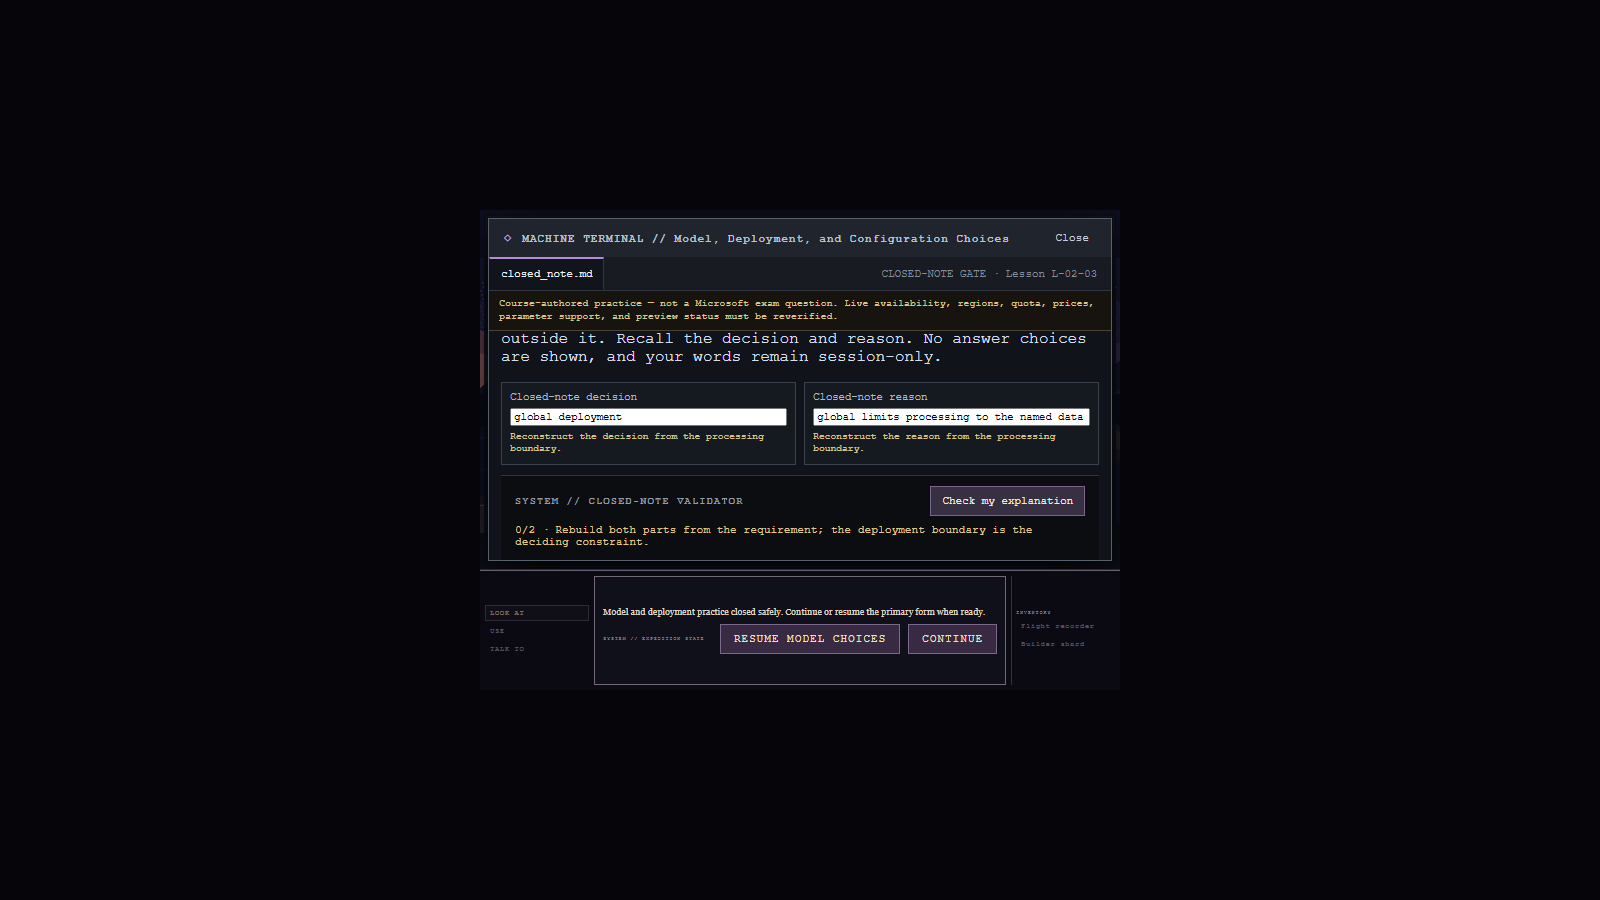
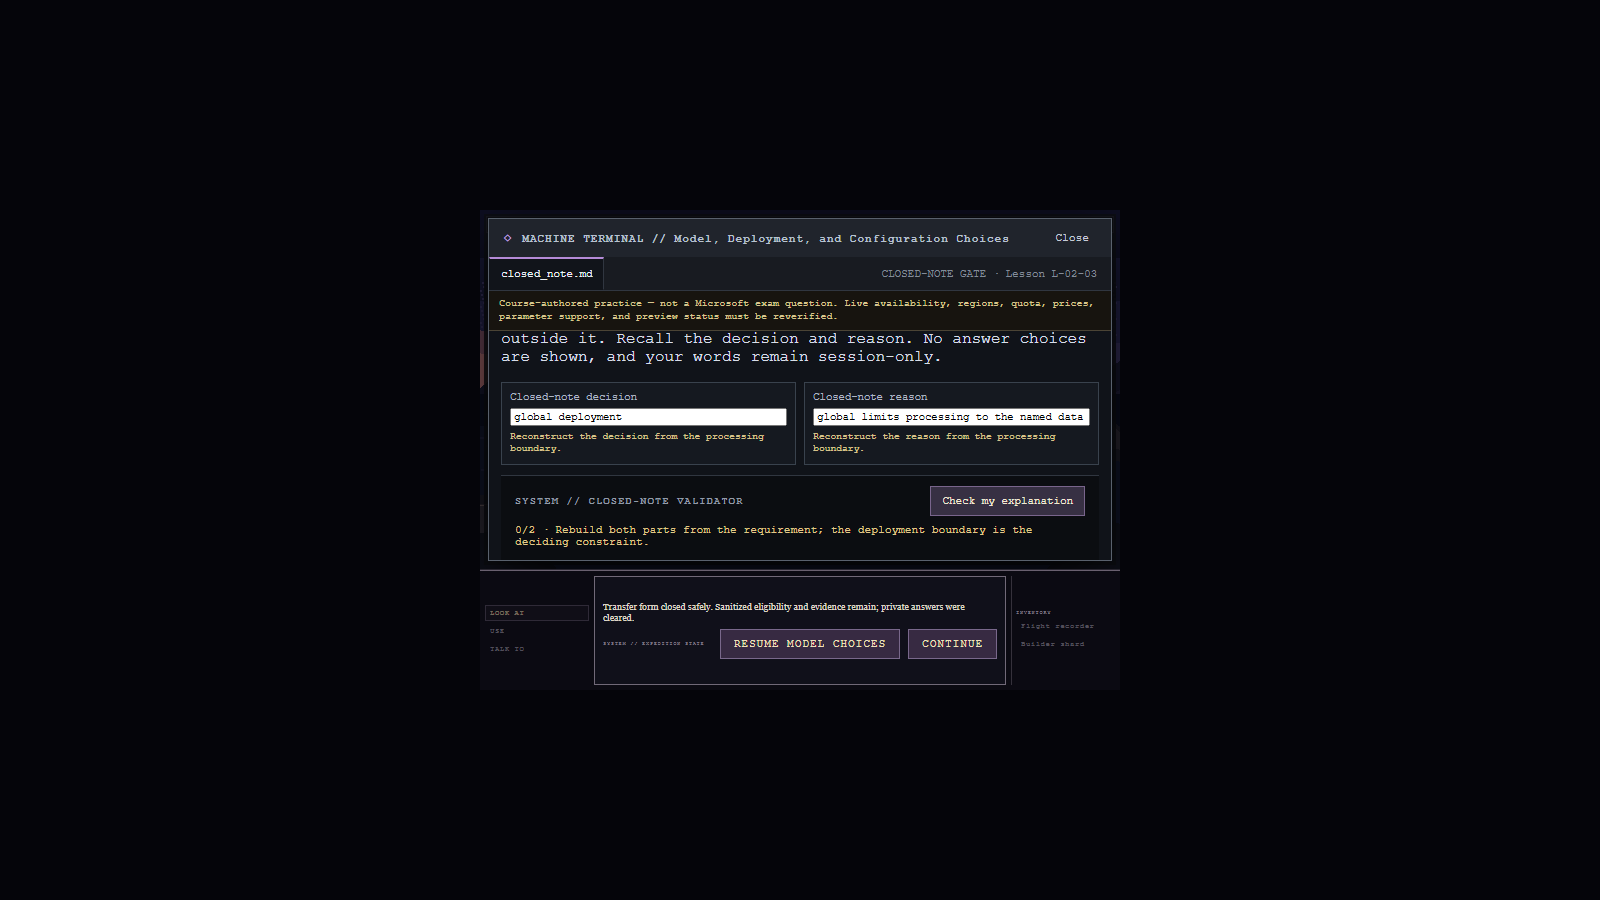
Round 9 step 5 Exercise Agent checkpoint

Changed region(s): [[0.375, 0.6533, 0.625, 0.7467]]

diff --git a/horizon-archive-game/src/App.jsx b/horizon-archive-game/src/App.jsx
@@ -80,6 +80,7 @@ import {
 import {
   evaluateModelChoiceExplanation,
   evaluateModelChoiceScenario,
+  getModelChoiceEligibility,
   getModelChoiceOptions,
   modelChoiceDimensions,
   modelChoiceExercise,
@@ -878,15 +879,17 @@ export function App() {
     setTerminalOpen(true);
     setRuinsTerminalKind("model-choice");
     if (!modelChoiceSession) {
-      const form = modelChoiceEvidence?.masteryStatus === "primary_complete" ? "transfer" : modelChoiceEvidence?.masteryStatus === "transfer_complete" || modelChoiceEvidence?.form === "explanation" ? "explanation" : "primary";
+      const { form } = getModelChoiceEligibility(modelChoiceEvidence);
       setModelChoiceSession({ form, phase: form === "explanation" ? "explanation" : "scenarios", index: 0, response: { decision: "", reason: "" }, result: null, hintLevel: 0, complete: false, explanationResponse: { decision: "", reason: "" }, explanationResult: null, ownershipConfirmed: false });
     }
   }
 
   function exitModelChoiceExercise() {
+    const phase = modelChoiceSession?.phase === "explanation" ? "Closed-note gate" : modelChoiceSession?.form === "transfer" ? "Transfer form" : "Primary form";
     setTerminalOpen(false);
     setRuinsTerminalKind(null);
-    setDialogue("Model and deployment practice closed safely. Continue or resume the primary form when ready.", "system");
+    setModelChoiceSession(null);
+    setDialogue(`${phase} closed safely. Sanitized eligibility and evidence remain; private answers were cleared.`, "system");
   }
 
   function checkModelChoice(event) {
@@ -1854,7 +1857,7 @@ export function App() {
                     <button className="continue-action" data-terminal-focus-fallback onClick={(event) => { terminalTriggerRef.current = event.currentTarget; openResponsibleAI(); }}>{responsibleAISession ? "Resume Responsible AI" : responsibleAIEvidence?.form === "transfer" || responsibleAIEvidence?.form === "explanation" ? "Start Responsible AI Transfer" : "Start Responsible AI"}</button>
                   )}
                   {pendingAdvance && scene.id === "ruins" && responsibleAIEvidence?.masteryStatus === "mastered" && modelChoiceEvidence?.masteryStatus !== "mastered" && (
-                    <button className="continue-action" data-terminal-focus-fallback onClick={(event) => { terminalTriggerRef.current = event.currentTarget; openModelChoiceExercise(); }}>{modelChoiceSession ? "Resume Model Choices" : modelChoiceEvidence?.masteryStatus === "primary_complete" ? "Start Model Choice Transfer" : modelChoiceEvidence?.masteryStatus === "transfer_complete" ? "Resume Closed-Note Gate" : "Start Model Choices"}</button>
+                    <button className="continue-action" data-terminal-focus-fallback onClick={(event) => { terminalTriggerRef.current = event.currentTarget; openModelChoiceExercise(); }}>{modelChoiceSession ? "Resume Model Choices" : modelChoiceEvidence?.masteryStatus === "primary_complete" ? "Start Model Choice Transfer" : modelChoiceEvidence?.masteryStatus === "transfer_complete" ? "Open Closed-Note Gate" : "Start Model Choices"}</button>
                   )}
                   {pendingAdvance && (
                     <button className="continue-action" data-terminal-focus-fallback onClick={continueJourney}>

diff --git a/horizon-archive-game/test/modelChoiceExercise.test.js b/horizon-archive-game/test/modelChoiceExercise.test.js
@@ -2,7 +2,7 @@ import test from "node:test";
 import assert from "node:assert/strict";
 import referencePrimary from "../../curriculum/lessons/L-02-03/reference_primary_answers.json" with { type: "json" };
 import referenceTransfer from "../../curriculum/lessons/L-02-03/reference_transfer_answers.json" with { type: "json" };
-import { evaluateModelChoiceExplanation, evaluateModelChoiceScenario, getModelChoiceOptions, modelChoicePrimaryScenarios, modelChoiceTransferScenarios, sanitizeModelChoiceEvidence, updateModelChoiceEvidence } from "../src/modelChoiceExercise.js";
+import { evaluateModelChoiceExplanation, evaluateModelChoiceScenario, getModelChoiceEligibility, getModelChoiceOptions, modelChoicePrimaryScenarios, modelChoiceTransferScenarios, sanitizeModelChoiceEvidence, updateModelChoiceEvidence } from "../src/modelChoiceExercise.js";
 
 test("primary form covers all four topic families at a strict 16 of 16", () => {
   assert.equal(modelChoicePrimaryScenarios.length, 8);
@@ -58,4 +58,18 @@ test("mastered evidence requires primary, transfer, and closed-note booleans", (
   const sanitized = sanitizeModelChoiceEvidence({ ...evidence, freeFormExplanation: "private", response: referenceTransfer.T04 });
   assert.equal("freeFormExplanation" in sanitized, false);
   assert.equal("response" in sanitized, false);
+});
+
+test("forged phase labels cannot advance sanitized eligibility", () => {
+  const forged = sanitizeModelChoiceEvidence({ exerciseId: "EX-L0203-MODEL-DEPLOYMENT-CHOICES", form: "explanation", masteryStatus: "transfer_complete", response: referenceTransfer.T04 });
+  assert.equal(forged.form, "primary");
+  assert.equal(forged.masteryStatus, "in_progress");
+  assert.deepEqual(getModelChoiceEligibility(forged), { form: "primary", masteryStatus: "in_progress" });
+});
+
+test("eligibility advances from correctness booleans rather than private answers", () => {
+  let evidence = updateModelChoiceEvidence(null, {});
+  for (const scenario of modelChoicePrimaryScenarios) evidence = updateModelChoiceEvidence(evidence, { scenarioId: scenario.id, correctness: { decision: true, reason: true } });
+  assert.deepEqual(getModelChoiceEligibility({ ...evidence, response: referencePrimary.P01, promptText: "private" }), { form: "transfer", masteryStatus: "primary_complete" });
+  assert.equal("response" in sanitizeModelChoiceEvidence({ ...evidence, response: referencePrimary.P01 }), false);
 });

diff --git a/horizon-archive-game/src/modelChoiceExercise.js b/horizon-archive-game/src/modelChoiceExercise.js
@@ -100,9 +100,14 @@ export function sanitizeModelChoiceEvidence(value) {
   const strictTransfer = hasStrictForm(itemCorrectness, modelChoiceTransferScenarios);
   const strictExplanation = modelChoiceDimensions.every((dimension) => itemCorrectness.closed_note_explanation?.[dimension] === true);
   const requestedStatus = ["in_progress", "remediation_required", "primary_complete", "transfer_complete", "mastered"].includes(value.masteryStatus) ? value.masteryStatus : "in_progress";
-  const masteryStatus = requestedStatus === "mastered" && !(strictPrimary && strictTransfer && strictExplanation)
-    ? (strictTransfer ? "transfer_complete" : strictPrimary ? "primary_complete" : "in_progress")
-    : requestedStatus;
+  const masteryStatus = strictPrimary && strictTransfer && strictExplanation && requestedStatus === "mastered"
+    ? "mastered"
+    : strictTransfer
+      ? "transfer_complete"
+      : strictPrimary
+        ? "primary_complete"
+        : requestedStatus === "remediation_required" ? "remediation_required" : "in_progress";
+  const form = strictTransfer ? "explanation" : strictPrimary ? "transfer" : "primary";
   return {
     exerciseId: exerciseAsset.exercise_id,
     lessonId: exerciseAsset.lesson_id,
@@ -110,7 +115,7 @@ export function sanitizeModelChoiceEvidence(value) {
     assessmentId: exerciseAsset.assessment_id,
     objectiveIds: [...exerciseAsset.objective_ids],
     skillIds: [...exerciseAsset.skill_ids],
-    form: ["primary", "transfer", "explanation"].includes(value.form) ? value.form : "primary",
+    form,
     itemCorrectness,
     attemptCount: Math.min(99, Math.max(0, Number.isInteger(value.attemptCount) ? value.attemptCount : 0)),
     hintLevel: Math.min(3, Math.max(0, Number.isInteger(value.hintLevel) ? value.hintLevel : 0)),
@@ -118,6 +123,12 @@ export function sanitizeModelChoiceEvidence(value) {
     misconceptionTags: Array.isArray(value.misconceptionTags) ? [...new Set(value.misconceptionTags.filter((tag) => validTags.has(tag)))] : [],
     masteryStatus,
   };
+}
+
+export function getModelChoiceEligibility(value) {
+  const evidence = sanitizeModelChoiceEvidence(value);
+  if (!evidence) return { form: "primary", masteryStatus: "in_progress" };
+  return { form: evidence.form, masteryStatus: evidence.masteryStatus };
 }
 
 export function updateModelChoiceEvidence(previous, changes = {}) {

diff --git a/Exercise Development/WORK_LOG.md b/Exercise Development/WORK_LOG.md
@@ -1,5 +1,16 @@
 # Exercise Agent Work Log
 
+## 2026-07-12 — L-02-03 continuity and ownership closure
+
+- **Outcome:** Closed the three concrete L-02-03 continuity defects without starting L-03-01 or L-03-02 gameplay. Exit messages now name the active `Primary form`, `Transfer form`, or `Closed-note gate`; closing any phase clears its private decision/reason draft and reopens a clean phase from sanitized eligibility only.
+- **Eligibility/privacy:** `sanitizeModelChoiceEvidence` now derives `primary`, `transfer`, or `explanation` eligibility exclusively from complete correctness booleans. Forged `form`, `primary_complete`, `transfer_complete`, or partial `mastered` labels cannot advance the learner. Reopen and reload retain allowlisted IDs, booleans, attempts, hints, confidence, tags, and status, but never selections, prompt text, runtime output, or closed-note wording.
+- **Ownership:** Every mode-aware exit renders under explicit `SYSTEM // EXPEDITION STATE`; primary and strict-mastery completions render under explicit `901 TEACHER // SOURCE-GROUNDED COURSE`. Neither path can fall through the generic Pilot footer. In-Terminal Pilot/System/Teacher ownership labels remain distinct.
+- **Files changed:** `horizon-archive-game/src/App.jsx`, `horizon-archive-game/src/modelChoiceExercise.js`, `horizon-archive-game/test/modelChoiceExercise.test.js`, `horizon-archive-game/public/question-manifest.json`, `playtest/e2e-playthrough.mjs`, refreshed closed-note QA capture, and this log.
+- **Validation:** 47/47 unit tests pass; production build passes; L-02-03 self-test plus primary and transfer references pass at 16/16; full title-to-credits E2E passes with zero runtime errors; the three model-choice captures remain present and byte-distinct; `git diff --check` passes.
+- **Manifest:** Promoted `HA-AI901-MODEL-PRIMARY` to `HA-AI901-MODEL-MASTERY` with the actual two-form 16/16 plus closed-note decision/reason success contract.
+- **Next action:** Player Agent should independently retry close/reopen and reload at each L-02-03 phase and challenge forged phase labels. No additional Exercise scope remains before that audit.
+- **Risks:** Closing intentionally discards private working answers, so the mode-aware System message makes that consequence explicit before the learner reopens a clean eligible phase.
+
 ## 2026-07-12 — L-02-03 strict transfer and closed-note mastery
 
 - **Outcome:** Completed `EX-L0203-MODEL-DEPLOYMENT-CHOICES` with the packaged eight-scenario fresh-transfer form and a separate closed-note data-zone decision/reason explanation. Mastery now requires primary 16/16, transfer 16/16, both closed-note dimensions, learner ownership confirmation, and confidence; sanitized forged or partial evidence cannot claim `mastered`. No `L-03-01` gameplay was begun.
